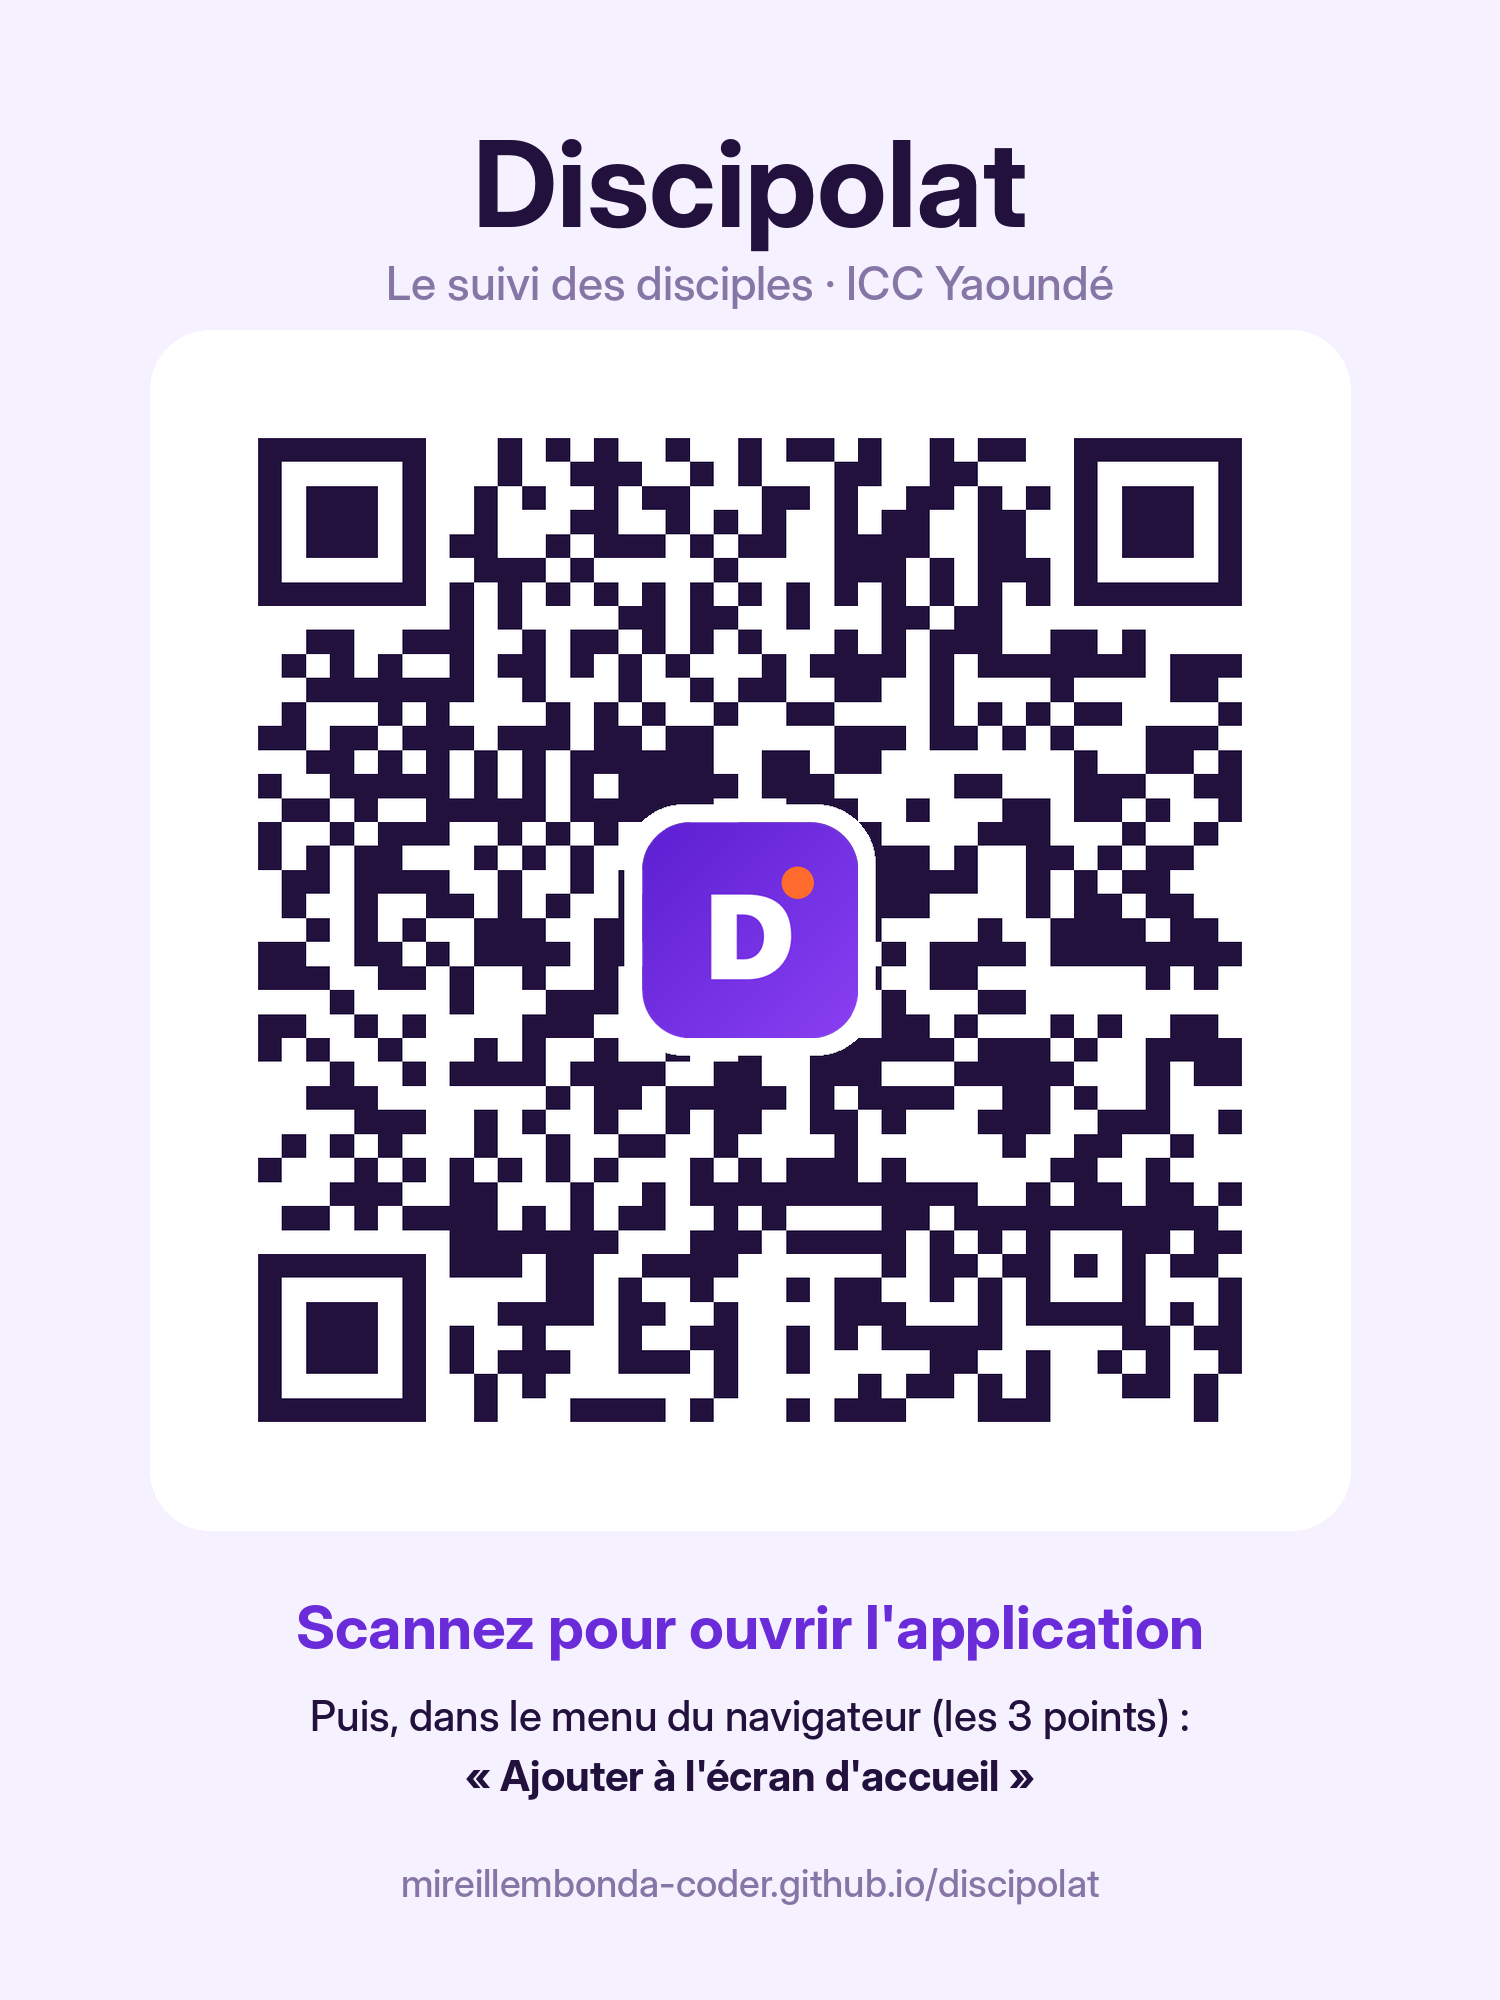
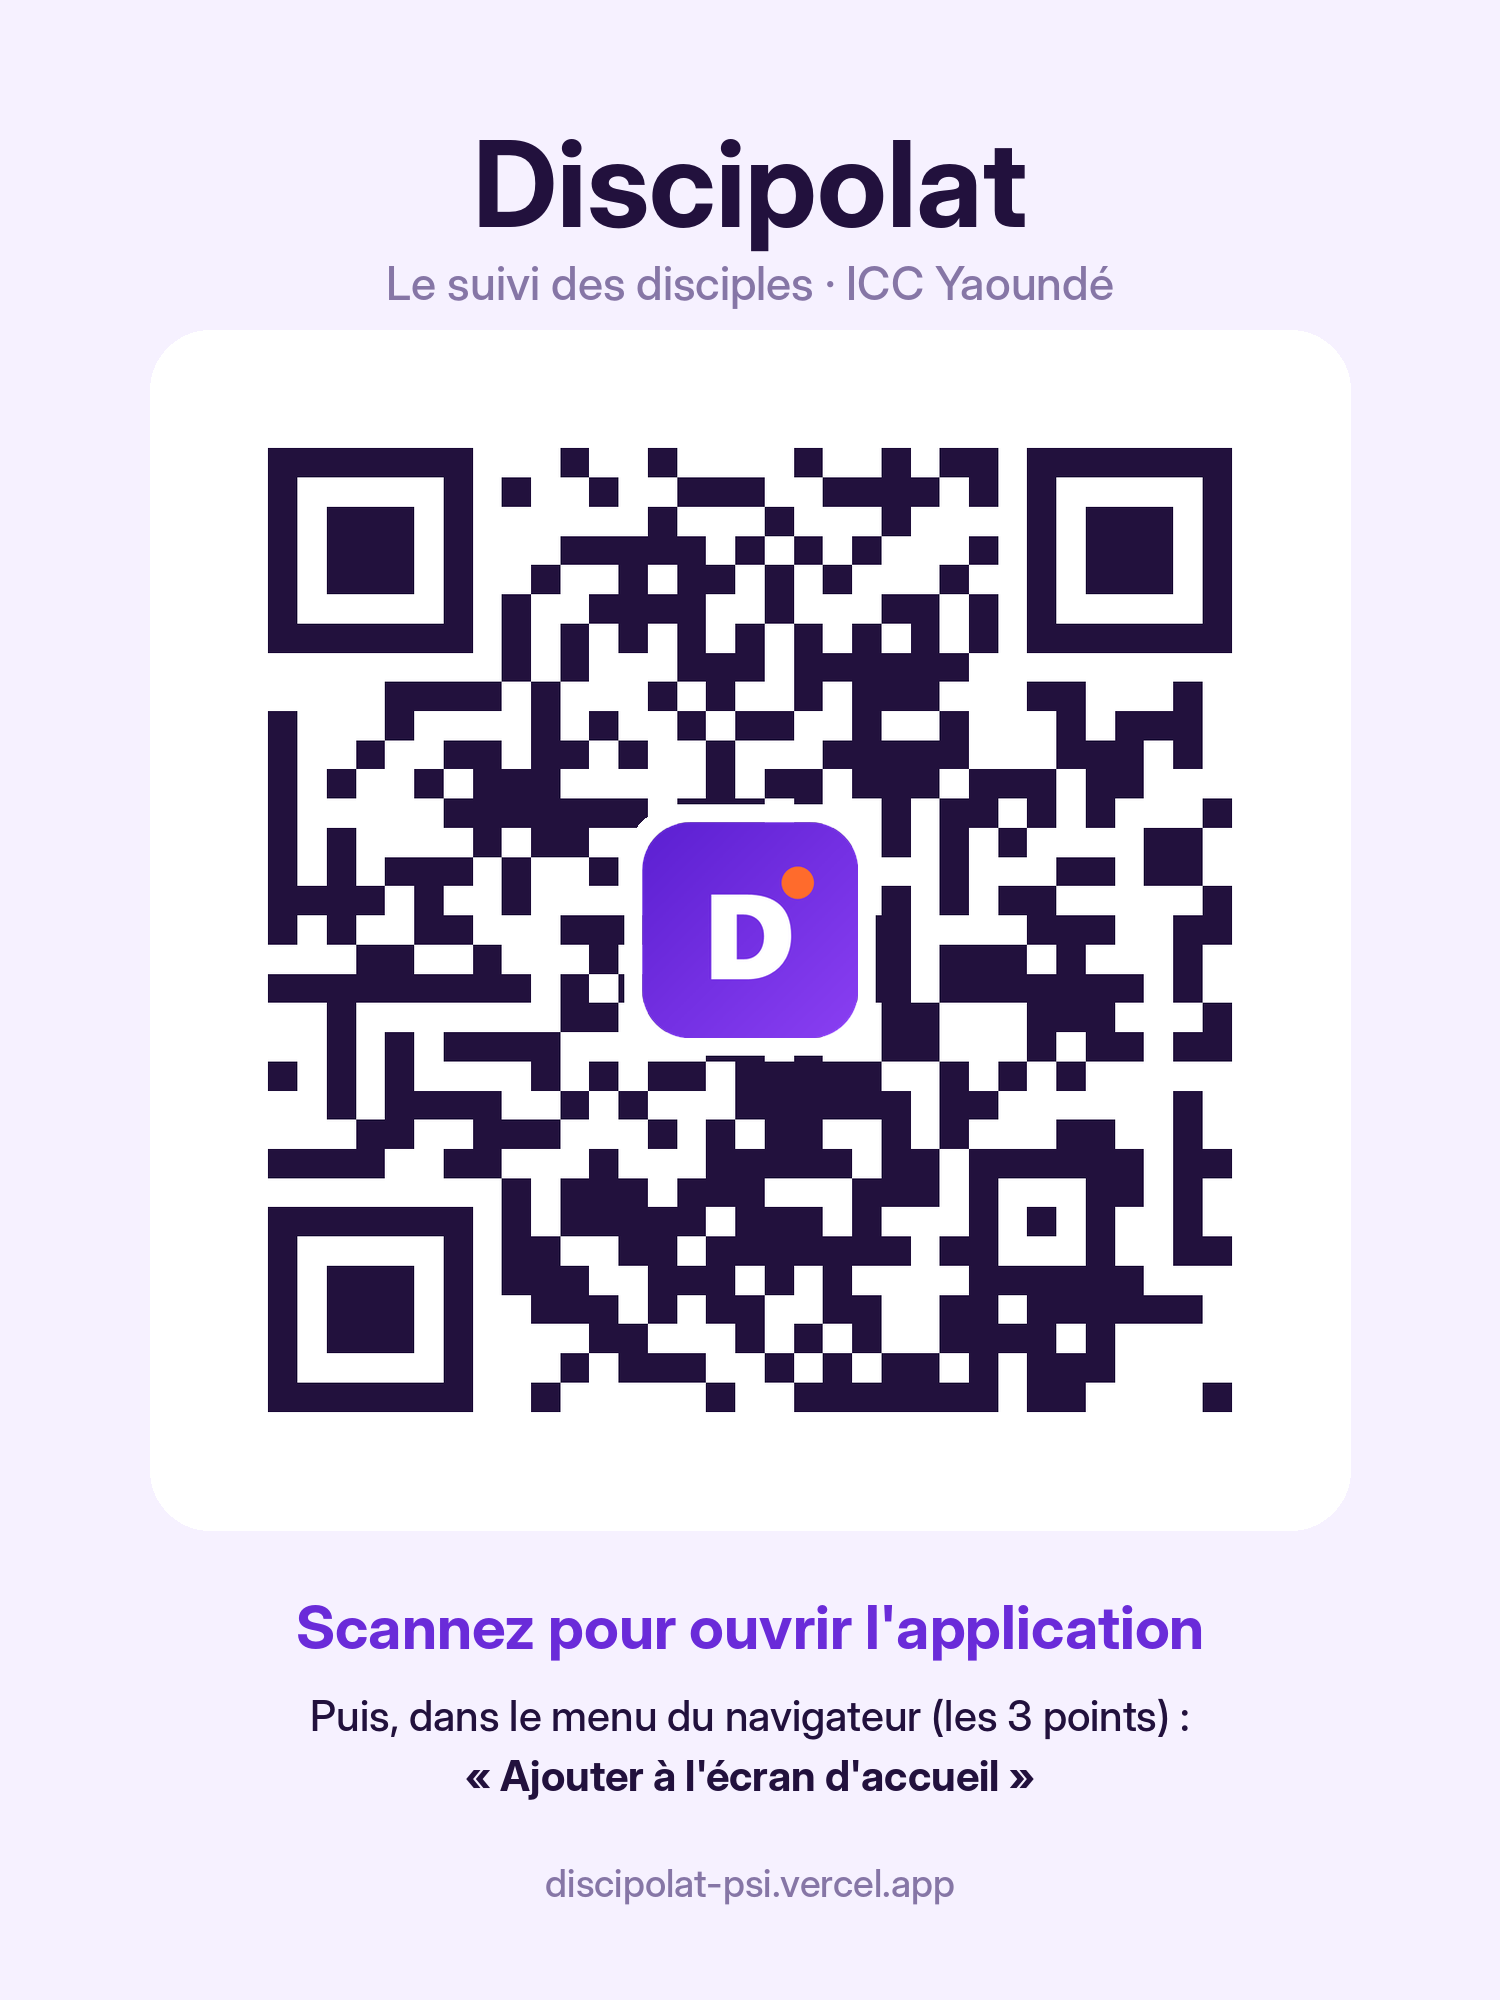
QR code Discipolat : adresse Vercel (github.io est bloqué chez certains opérateurs)
Claude-Session: https://claude.ai/code/session_01Ks5hqK3acdu5tHFibAHpJR

Changed region(s): [[0.1533, 0.217, 0.828, 0.713], [0.276, 0.93, 0.736, 0.961]]

diff --git a/presentation/qr/make_qr.py b/presentation/qr/make_qr.py
@@ -1,0 +1,29 @@
+"""Génère le QR code Discipolat (QR seul, SVG, et carte à projeter).
+Usage : python3 presentation/qr/make_qr.py [URL]"""
+import sys, segno, io
+from PIL import Image, ImageDraw, ImageFont
+URL = sys.argv[1] if len(sys.argv) > 1 else 'https://discipolat-psi.vercel.app/'
+OUT = 'presentation/qr/'
+q = segno.make(URL, error='h')
+q.save(OUT + 'discipolat-qr.svg', scale=20, border=2, dark='#22113D')
+buf = io.BytesIO(); q.save(buf, kind='png', scale=40, border=2, dark='#22113D'); buf.seek(0)
+S = 1100; qr = Image.open(buf).convert('RGB').resize((S, S), Image.NEAREST)
+isz = int(S * 0.2); ic = Image.open('icons/icon-512.png').convert('RGBA').resize((isz, isz), Image.LANCZOS)
+pad = Image.new('RGBA', (isz + 36, isz + 36), (255, 255, 255, 0)); m = Image.new('L', pad.size, 0)
+ImageDraw.Draw(m).rounded_rectangle([0, 0, pad.size[0] - 1, pad.size[1] - 1], radius=60, fill=255)
+pad.paste(Image.new('RGBA', pad.size, 'white'), (0, 0), m); pad.paste(ic, (18, 18), ic)
+qr.paste(pad, ((S - pad.size[0]) // 2, (S - pad.size[1]) // 2), pad)
+qr.save(OUT + 'discipolat-qr.png')
+W, H = 1500, 2000; card = Image.new('RGB', (W, H), '#F6F1FF'); d = ImageDraw.Draw(card)
+F = lambda w, s: ImageFont.truetype(f'/usr/share/fonts/opentype/inter/InterDisplay-{w}.otf', s)
+d.rounded_rectangle([150, 330, 1350, 1530], radius=60, fill='white')
+card.paste(qr.resize((1080, 1080), Image.LANCZOS), (210, 390))
+def ctr(y, t, f, c): d.text(((W - d.textlength(t, font=f)) / 2, y), t, font=f, fill=c)
+ctr(110, 'Discipolat', F('Bold', 120), '#22113D')
+ctr(255, 'Le suivi des disciples · ICC Yaoundé', F('Medium', 46), '#8676A6')
+ctr(1590, "Scannez pour ouvrir l'application", F('Bold', 60), '#6A2BD9')
+ctr(1690, 'Puis, dans le menu du navigateur (les 3 points) :', F('Medium', 42), '#22113D')
+ctr(1750, "« Ajouter à l'écran d'accueil »", F('Bold', 42), '#22113D')
+ctr(1860, URL.replace('https://', '').rstrip('/'), F('Medium', 38), '#8676A6')
+card.save(OUT + 'discipolat-qr-carte.png')
+print('OK', URL)
